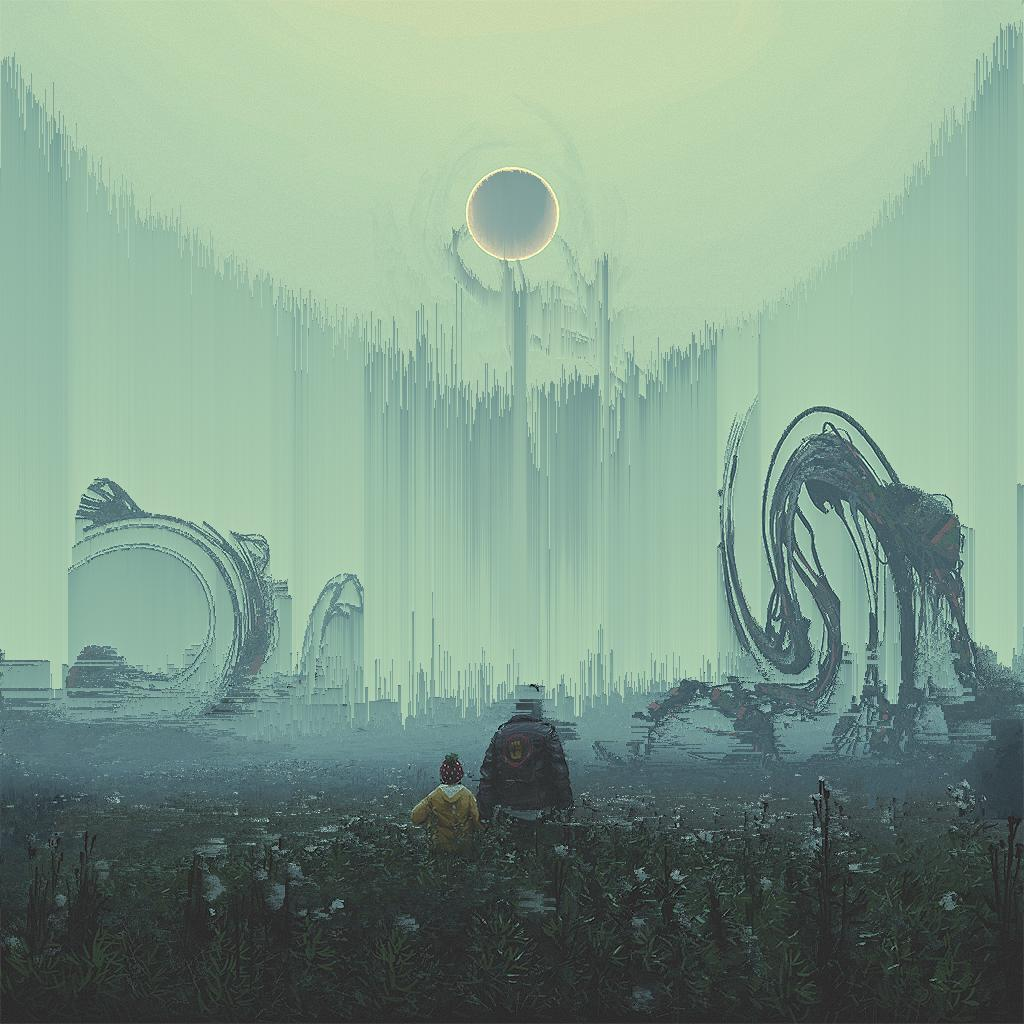
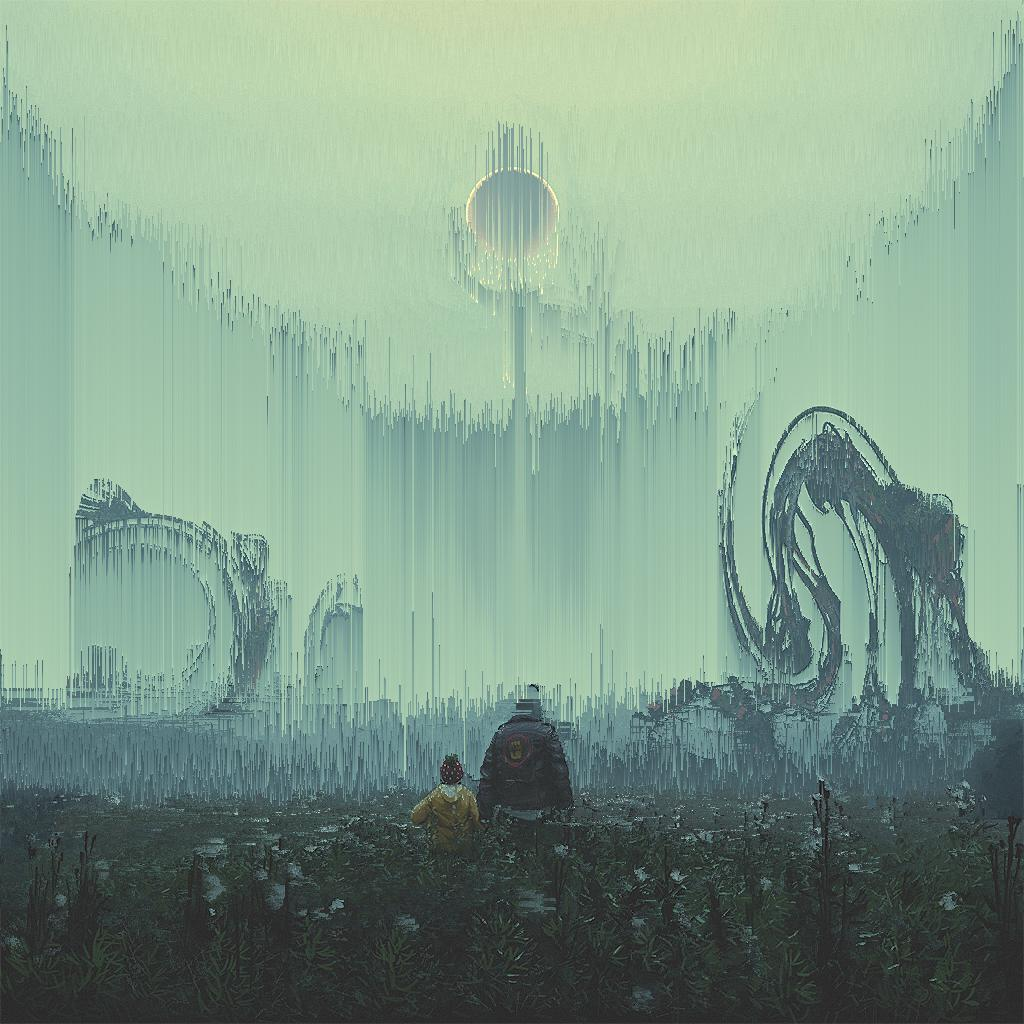
Added StepPixelFunction and 0018 + bluecity

diff --git a/pyglitch/rowops.py b/pyglitch/rowops.py
@@ -213,6 +213,43 @@ class InPhasePixelFunction(PixelFunction):
         return _rgb_to_yiq(r/256, g/256, b/256)[1]
 
 
+class StepPixelFunction(PixelFunction):
+    '''Step sorting algorithm as described in https://www.alanzucconi.com/2015/09/30/colour-sorting/'''
+    def __init__(self, steps, smooth=True, coeff=1):
+        super().__init__(coeff=coeff)
+
+        self.steps = steps
+        self.smooth = smooth
+
+    def getValue(self, r, g, b):
+        r /= 256
+        g /= 256
+        b /= 256
+
+        lum = _sqrt(0.241*r + 0.691*g + 0.068*b)
+        h, _, v = _rgb_to_hsv(r, g, b)
+
+        h2 = int(h * self.steps)
+        lum2 = int(lum * self.steps)
+        v2 = int(v * self.steps)
+
+        if self.smooth and h2 % 2 == 1:
+            v2 = self.steps - v2
+            lum2 = self.steps - lum2
+
+        return (h2, lum2, v2)
+
+
+class TuplePixelFunction(PixelFunction):
+    def __init__(self, *pixelFunctions, coeff=1):
+        super().__init__(coeff=coeff)
+
+        self.pixelFunctions = pixelFunctions
+    
+    def getValue(self, r, g, b):
+        return tuple(map(lambda pf: pf.getValue(r, g, b), self.pixelFunctions))
+
+
 class FullIntervalGenerator(IntervalGenerator):
     def generate(self, row, *, _doSeed=True):
         super().generate(row, _doSeed=_doSeed)
@@ -289,10 +326,16 @@ class PixelFunctionIntervalGenerator(IntervalGenerator):
         intervals = []
 
         X = 0
-        inSection = self.inRange(self.pixelFunction.process(*row[0, :]))
+        r = self.pixelFunction.process(*row[0, :])
+        if type(r) == tuple:
+            r = r[0]
+        inSection = self.inRange(r)
 
         for i in range(1, L):
-            aboveCutoff = self.inRange(self.pixelFunction.process(*row[i, :]))
+            r = self.pixelFunction.process(*row[i, :])
+            if type(r) == tuple:
+                r = r[0]
+            aboveCutoff = self.inRange(r)
             if inSection:
                 if not aboveCutoff:
                     intervals.append((X, i))
@@ -368,7 +411,7 @@ class ExpandingIntervalGenerator(IntervalGenerator):
             x0 = max(0, x0 - dx)
             x1 = min(L, x1 + dx)
 
-            newIntervals.append((x0, x1))
+            newIntervals.append((int(x0), int(x1)))
         
         return verifySI(newIntervals)
 

diff --git a/pyglitch/__init__.py b/pyglitch/__init__.py
@@ -1,2 +1,2 @@
 from .glitchabc import siOr, siAnd, siXor, siMinus, SectionGenerator, OrSectionGenerator, AndSectionGenerator, XorSectionGenerator, MinusSectionGenerator, PixelFunction, SumPixelFunction, IntervalGenerator, OrIntervalGenerator, AndIntervalGenerator, XorIntervalGenerator, MinusIntervalGenerator, ImageFilter
-from .rowops import PROB_FUNCS, MAX_FUNCS, FullSectionGenerator, RandomWalkSectionGenerator, UniformSectionGenerator, RandomPixelFunction, MaxRGBPixelFunction, HuePixelFunction, SaturationPixelFunction, ValuePixelFunction, LightnessPixelFunction, FullIntervalGenerator, WaveIntervalGenerator, SectionBasedIntervalGenerator, UniformIntervalGenerator, PixelFunctionIntervalGenerator, CappingIntervalGenerator, ShiftFilter, PixelSortFilter, loUpAround, InPhasePixelFunction
+from .rowops import PROB_FUNCS, MAX_FUNCS, FullSectionGenerator, RandomWalkSectionGenerator, UniformSectionGenerator, RandomPixelFunction, MaxRGBPixelFunction, HuePixelFunction, SaturationPixelFunction, ValuePixelFunction, LightnessPixelFunction, FullIntervalGenerator, WaveIntervalGenerator, SectionBasedIntervalGenerator, UniformIntervalGenerator, PixelFunctionIntervalGenerator, CappingIntervalGenerator, ShiftFilter, PixelSortFilter, loUpAround, InPhasePixelFunction, StepPixelFunction, TuplePixelFunction, ExpandingIntervalGenerator

diff --git a/examples/0018/ex0018.py b/examples/0018/ex0018.py
@@ -1,0 +1,38 @@
+# Set working directory
+import os
+import sys
+
+sys.path.append(os.path.dirname(os.path.dirname(
+    os.path.dirname(os.path.abspath(__file__)))))
+
+# 0018
+
+from PIL import Image as _Image
+import pyglitch
+import logging
+
+intervalGenerator0 = pyglitch.PixelFunctionIntervalGenerator(
+    pyglitch.HuePixelFunction(),
+    lo=0.9,
+    up=0.1
+) & pyglitch.PixelFunctionIntervalGenerator(
+    pyglitch.LightnessPixelFunction(),
+    lo=0.4,
+    up=1
+)
+
+intervalGenerator0 = pyglitch.ExpandingIntervalGenerator(
+    intervalGenerator0, 50) + pyglitch.WaveIntervalGenerator(0.04, percent=True)
+
+sortingFunction0 = pyglitch.SaturationPixelFunction()
+
+sortFilter0 = pyglitch.PixelSortFilter(
+    intervalGenerator0,
+    sortingFunction0,
+    axis=0,
+    reverse=True
+)
+
+logging.getLogger().setLevel(7)
+
+I = sortFilter0.apply(_Image.open('0018.png')).save('0018_0.png')

diff --git a/examples/bluecity/exBluecity.py b/examples/bluecity/exBluecity.py
@@ -1,0 +1,33 @@
+# Set working directory
+import os
+import sys
+
+sys.path.append(os.path.dirname(os.path.dirname(
+    os.path.dirname(os.path.abspath(__file__)))))
+
+# flowers
+import logging
+from PIL import Image as _Image
+
+import pyglitch
+
+import time
+
+intervalGenerator0 = pyglitch.PixelFunctionIntervalGenerator(
+    pyglitch.LightnessPixelFunction(),
+    lo=0,
+    up=0.8
+)
+
+sortingFunction0 = pyglitch.StepPixelFunction(3)
+
+sortFilter0 = pyglitch.PixelSortFilter(
+    intervalGenerator0,
+    sortingFunction0,
+    axis=0,
+    reverse=False
+)
+
+logging.getLogger().setLevel(7)
+
+I = sortFilter0.apply(_Image.open('bluecity.jpg'), mask=_Image.open('bluecity_mask.jpg')).save('bluecity_0.jpg')

diff --git a/examples/flowers/exFlowers.py b/examples/flowers/exFlowers.py
@@ -32,7 +32,13 @@ sortFilter0 = pyglitch.PixelSortFilter(
 intervalGenerator1 = pyglitch.PixelFunctionIntervalGenerator(
     pyglitch.LightnessPixelFunction(),
     lo=0.5,
-    up=0.747
+    up=0.74
+) + pyglitch.WaveIntervalGenerator(
+    0.05, percent=True
+) - pyglitch.PixelFunctionIntervalGenerator(
+    pyglitch.LightnessPixelFunction(),
+    lo=0.0,
+    up=0.3
 )
 
 sortingFunction1 = pyglitch.LightnessPixelFunction()
@@ -40,8 +46,7 @@ sortingFunction1 = pyglitch.LightnessPixelFunction()
 sortFilter1 = pyglitch.PixelSortFilter(
     intervalGenerator1,
     sortingFunction1,
-    axis=1,
-    reverse=False
+    axis=1
 )
 
 logging.getLogger().setLevel(7)
